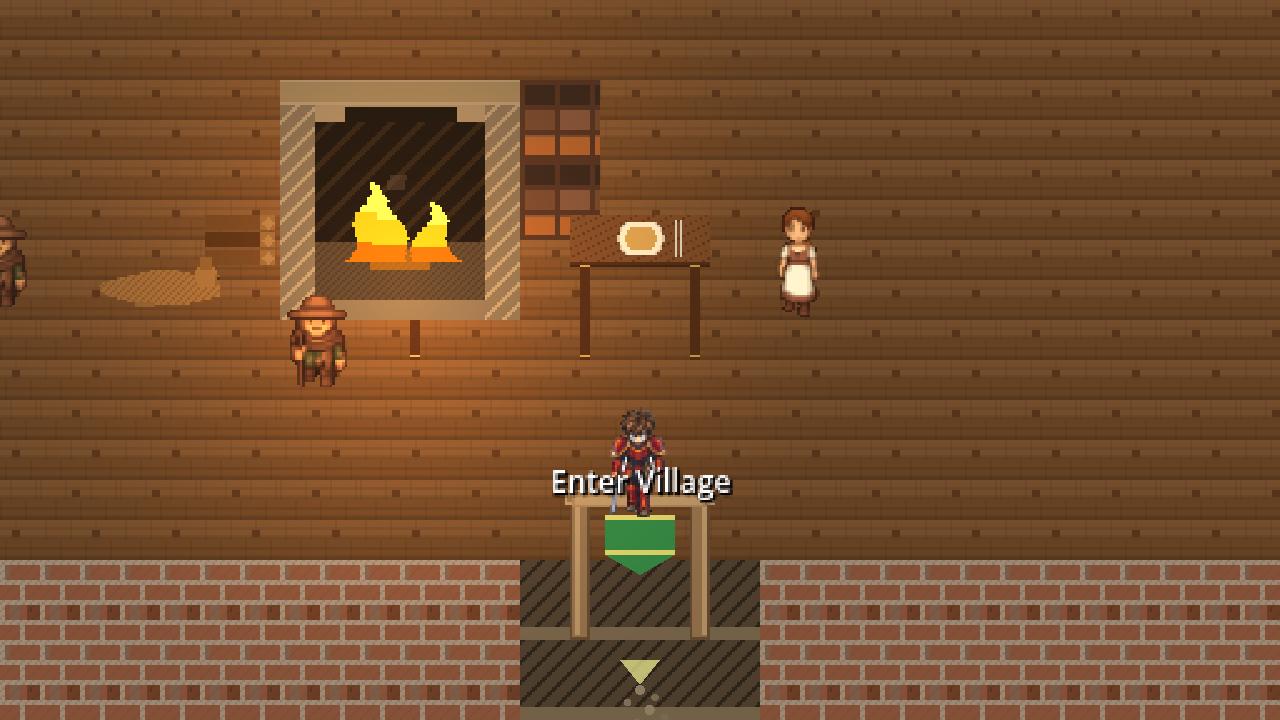
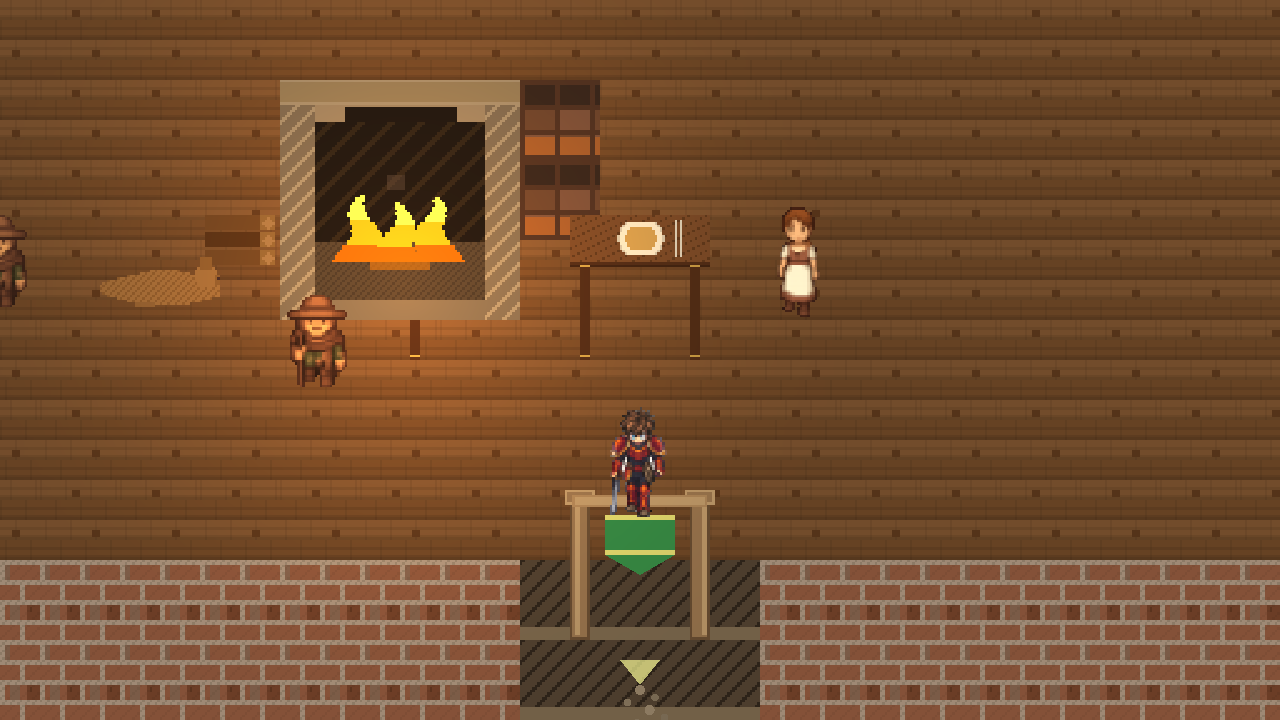
store assets: re-shot at v3.33.770-alpha, door signs hidden, the player on walkable ground
The capture-only marketing_shots changes on this branch, run (cowir-adhoc
21988, cowir-overworld 21994). Log: harmonia hid 5 door labels, the other
villages 3 each, every interior and the cave 1; the stand point was nudged on
Harmonia (32,10)->(32,8) and Frosthold (15,9)->(14,9). Eleven frames replaced:
six villages, three interiors, the cave (each lost its sign) and the title
(reads v3.33.770). Run-to-run noise 0.00% on every shot, so even the 0.07-0.90%
deltas are deterministic and named by the log. Kept: battle. The lead frame was
compared by eye with the one it replaces. CAPTIONS: vintage table + section;
MANIFEST: 12 rows regenerated (cksum + stat).

Claude-Session: https://claude.ai/code/session_01W2qjrDSfZUL4M11aPpJvXX

Changed region(s): [[0.4062, 0.6417, 0.5938, 0.7028], [0.25, 0.2444, 0.375, 0.3667]]

diff --git a/itch-assets/CAPTIONS.md b/itch-assets/CAPTIONS.md
@@ -4,10 +4,10 @@
 
 | captured at | shots | section |
 |---|---|---|
-| `v3.33.748-alpha` | `tavern_interior` · `whispering_cave` | "re-shot at `v3.33.748-alpha`" |
 | `v3.33.750-alpha` | `battle_storm` · `field_elite_medieval` · `field_elite_prompt_medieval` · `field_elite_steampunk` · `grimhollow_spiral` · `infernal_grotto_f3` · `warren_lever_portals` · `warren_wrap_field` | commit `1df31b2fb` |
 | `v3.33.752-alpha` | (none left: both re-shot at `.767`) | commits `438ff3e68`, `21f990b47` |
-| `v3.33.767-alpha` | the six villages · `inn_interior` · `shop_interior` · `battle` · `title_screen` | "re-shot at `v3.33.767-alpha`" |
+| `v3.33.767-alpha` | `battle` | "re-shot at `v3.33.767-alpha`" |
+| `v3.33.770-alpha` | the six villages · the three interiors · `whispering_cave` · `title_screen` | "re-shot at `v3.33.770-alpha`, door labels hidden" |
 
 Re-derive it rather than trusting this table: `git log -1 --format=%h -- itch-assets/screenshots/<shot>.png`
 names the commit, and that commit's message names the tag it was shot from. Which of them have gone
@@ -710,4 +710,25 @@ show the north wall, so the misplaced painted fireplace that `.768` fixes is not
 **Capture conditions:** `tools/marketing_shots.sh` (sandboxed `XDG_DATA_HOME`, pads jailed) from
 `<lane>/tmp/wt-shoot767`; a sandboxed `--import` first (EC=0, 0 SCRIPT/Parse errors); his real profile:
 0 new rotated logs. The store page itself is uploaded through the web UI, which is @struktured's.
+
+---
+
+## 2026-11-05 — re-shot at `v3.33.770-alpha`, door labels hidden, the player on walkable ground
+
+cowir-adhoc 21988 on the new lead frame: the door signs ("Enter Attic", "The Forge (rear entrance)") read as UI
+on a marketing still, and the player stood on the river/wall seam. `tools/marketing_shots.gd` now (capture
+only, the game is untouched) **hides every door sign** after framing, and **stands the player on a cell the
+village says is walkable** (`BaseVillage._is_cell_walkable`, cowir-overworld 21994). The capture log proves
+both: harmonia hid 5 labels, the other villages 3 each, every interior and the cave 1; the stand point was
+nudged on Harmonia (32,10)→(32,8) and Frosthold (15,9)→(14,9), and was already walkable on the other four.
+**In the game those signs DO show**; the stills omit them.
+
+Replaced: the six villages, the three interiors, `whispering_cave` (each lost its door sign) and
+`title_screen` (its version label now reads `v3.33.770-alpha`). Pixel deltas vs the shipped frames, run-to-run
+noise 0.00% on every shot: harmonia 71.33% · frosthold 48.50% · inn 1.66% · the rest 0.07–0.90%. Under the
+pixel tool's 1% floor those read "NOISE", but with zero noise the change is deterministic and the log names
+it (a hidden sign), so they are replaced too. Kept: `battle` (no door signs in a battle).
+
+Still in the lead frame, NOT a capture-tool matter: a black-coated NPC stands at the river/wall seam at the
+left edge, and two walkers are clipped by the bottom edge (they move; framing cannot pin them).
 
